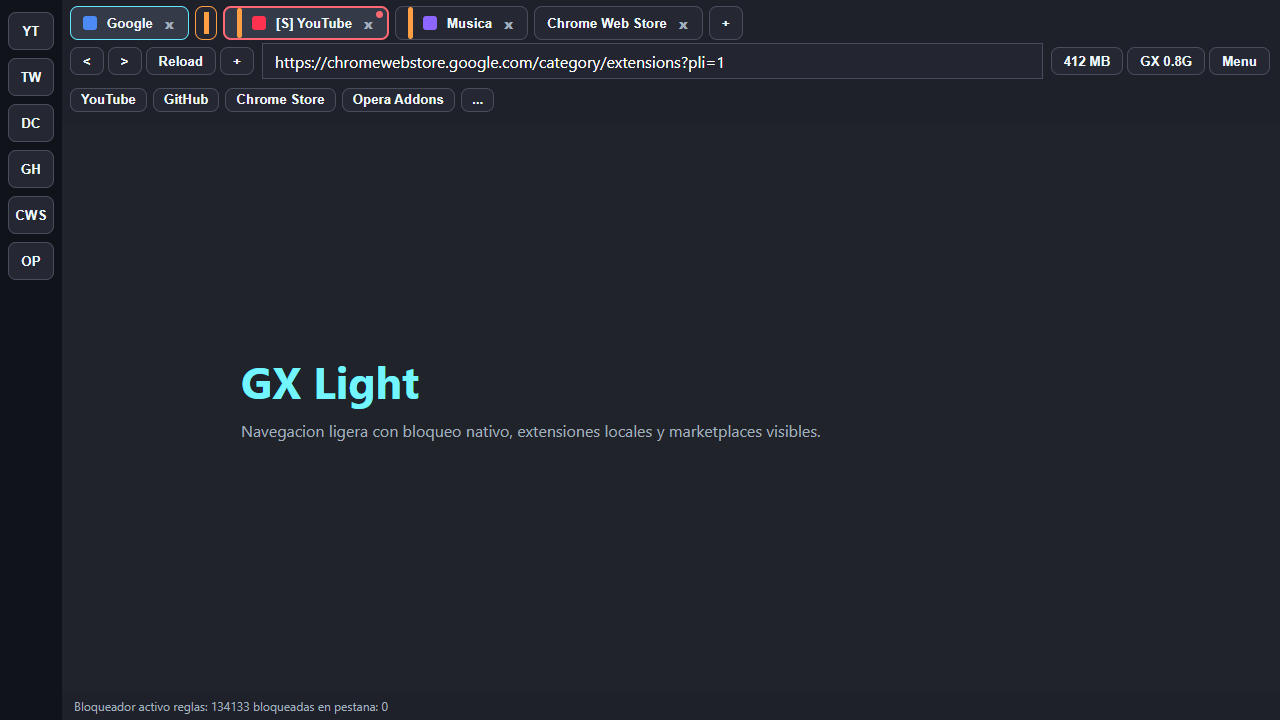
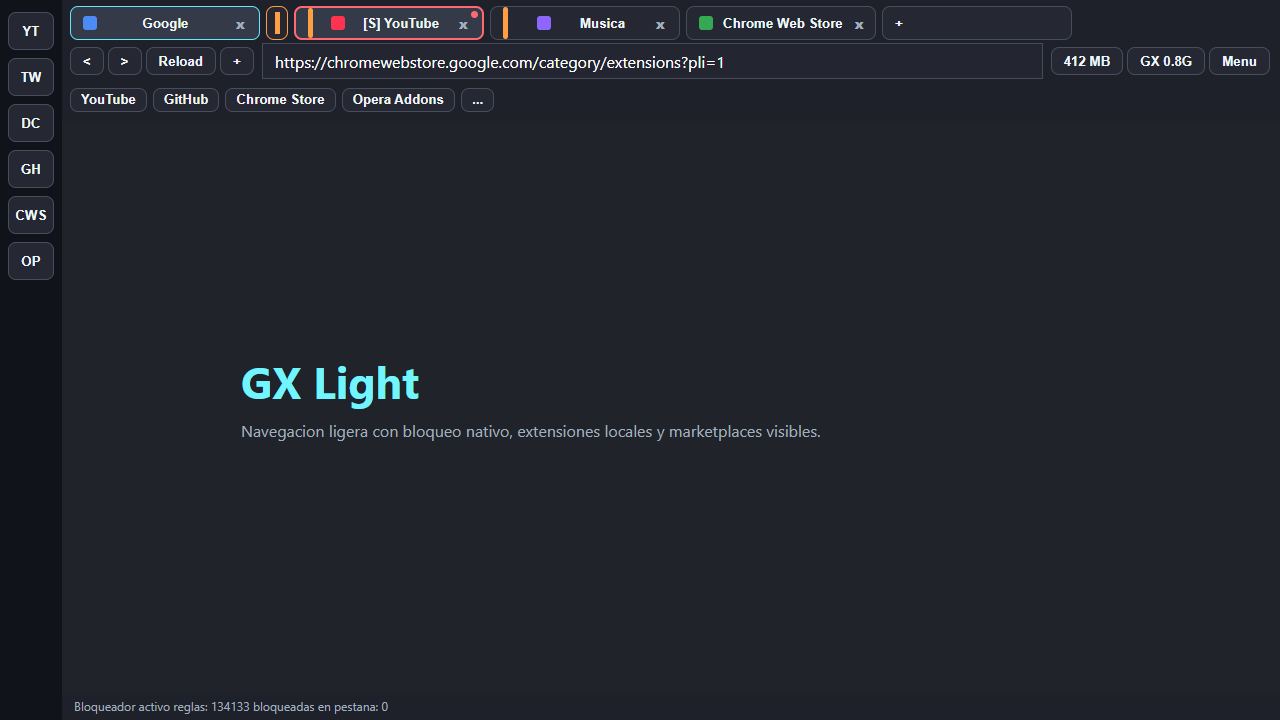
Publica GX Light Browser 1.15

Changed region(s): [[0.0938, 0.0, 0.6875, 0.0611]]

diff --git a/scripts/verify-ui-preview.js b/scripts/verify-ui-preview.js
@@ -107,6 +107,22 @@ async function main() {
         report.failures.push(`middle-click favorite did not create a tab: ${githubCount}`);
       }
 
+      await page.evaluate(() => {
+        document.querySelector(".tabs").classList.add("dense");
+        for (let i = 0; i < 20; i += 1) makeTab(`Dense ${i}`);
+      });
+      const denseReport = await page.locator(".tabs").evaluate((tabs) => {
+        const entries = [...tabs.querySelectorAll(".tab[data-tab]")];
+        return {
+          overflow: tabs.scrollWidth > tabs.clientWidth,
+          missingIcons: entries.filter((tab) => !tab.querySelector(".favicon")).length,
+          narrowest: Math.min(...entries.map((tab) => tab.getBoundingClientRect().width))
+        };
+      });
+      if (denseReport.overflow || denseReport.missingIcons || denseReport.narrowest < 37) {
+        report.failures.push(`dense tabs failed: ${JSON.stringify(denseReport)}`);
+      }
+
       await page.locator(".menu-button").click();
       const menuVisible = await page.locator(".menu-preview").isVisible();
       const menuText = await page.locator(".menu-preview").innerText();

diff --git a/docs/ui-preview.html b/docs/ui-preview.html
@@ -57,6 +57,9 @@
       align-items: center;
       justify-content: space-between;
       gap: 10px;
+      min-width: 38px;
+      max-width: 190px;
+      flex: 1 1 190px;
     }
     .tab .close {
       color: #a1b0be;
@@ -95,6 +98,9 @@
       background: #ff334f;
       flex: 0 0 auto;
     }
+    .tabs.dense .tab { padding: 0 6px; }
+    .tabs.dense .tab span:not(.favicon) { display: none; }
+    .tabs.dense .tab .favicon { display: block; margin: auto; }
     .tab.active { background: #353a49; border-color: #63e8ff; }
     .tab.multi-selected { background: #353a49; border: 2px solid #ff6974; position: relative; }
     .tab.multi-selected::after { content: ""; width: 7px; height: 7px; border-radius: 50%; background: #ff6974; position: absolute; right: 4px; top: 3px; }
@@ -188,7 +194,7 @@
         <button class="island-bar" title="Isla con 2 pestanas"></button>
         <button class="tab island island-member multi-selected" data-tab="YouTube" hidden><span class="favicon"></span><span>[S] YouTube</span><span class="close">x</span></button>
         <button class="tab island island-member" data-tab="Musica" hidden><span class="favicon" style="background:#8d66ff"></span><span>Musica</span><span class="close">x</span></button>
-        <button class="tab" data-tab="Chrome Web Store"><span>Chrome Web Store</span><span class="close">x</span></button>
+        <button class="tab" data-tab="Chrome Web Store"><span class="favicon" style="background:#34a853"></span><span>Chrome Web Store</span><span class="close">x</span></button>
         <button class="tab add-tab" style="width:34px">+</button>
       </section>
       <section class="nav">
@@ -239,7 +245,7 @@
       const button = document.createElement('button');
       button.className = 'tab';
       button.dataset.tab = title;
-      button.innerHTML = `<span>${title}</span><span class="close">x</span>`;
+      button.innerHTML = `<span class="favicon" style="background:hsl(${title.length * 31 % 360} 70% 55%)"></span><span>${title}</span><span class="close">x</span>`;
       wireTab(button);
       tabs.insertBefore(button, document.querySelector('.add-tab'));
     }

diff --git a/src/BrowserForm.cs b/src/BrowserForm.cs
@@ -2239,9 +2239,11 @@ namespace GXLightBrowser
                 tab.Height = 28;
                 tab.Margin = new Padding(0, 1, 6, 3);
                 tab.IsSelected = page == _tabs.SelectedTab;
-                tab.ShowCloseGlyph = !_appSettings.CompactIconTabs;
+                tab.IconOnly = _appSettings.CompactIconTabs || width <= 58;
+                tab.ShowCloseGlyph = !tab.IconOnly && width >= 86;
                 tab.IconImage = _appSettings.ShowPageIcons && browserTab != null ? browserTab.Favicon : null;
-                tab.IconOnly = _appSettings.CompactIconTabs;
+                tab.ShowIconPlaceholder = _appSettings.ShowPageIcons && browserTab != null && browserTab.Favicon == null;
+                tab.IconPlaceholderColor = browserTab == null ? Theme.Muted : ColorFromText(GetTabUrl(browserTab));
                 tab.IsMultiSelected = browserTab != null && browserTab.IsSelectedForIsland;
                 if (browserTab != null && browserTab.IsSelectedForIsland)
                 {
@@ -2317,10 +2319,11 @@ namespace GXLightBrowser
 
             ChromeButton island = new ChromeButton();
             island.Text = string.Empty;
-            island.Width = 22;
+            island.Width = Math.Min(40, 14 + Math.Min(5, count) * 6);
             island.Height = 28;
             island.Margin = new Padding(0, 1, 6, 3);
-            island.ShowIslandStripe = true;
+            island.IsIslandToggle = true;
+            island.IslandMemberCount = count;
             island.IslandColor = color;
             island.Accent = color;
             island.AllowDrop = true;
@@ -2926,23 +2929,44 @@ namespace GXLightBrowser
             {
                 return 38;
             }
-            if (_appSettings.TabWidth >= 80)
+
+            HashSet<int> islands = new HashSet<int>();
+            int visibleTabs = 0;
+            int islandWidth = 0;
+            for (int i = 0; i < _tabs.TabPages.Count; i++)
             {
-                return _appSettings.TabWidth;
+                BrowserTab tab = _tabs.TabPages[i].Tag as BrowserTab;
+                if (tab == null)
+                {
+                    visibleTabs++;
+                    continue;
+                }
+                if (tab.IslandId > 0 && islands.Add(tab.IslandId))
+                {
+                    int members = CountIslandMembers(tab.IslandId);
+                    islandWidth += Math.Min(40, 14 + Math.Min(5, members) * 6) + 6;
+                }
+                if (tab.IslandId <= 0 || !_collapsedIslands.Contains(tab.IslandId))
+                {
+                    visibleTabs++;
+                }
             }
 
-            int available = Math.Max(260, _tabStrip.Width - 12);
-            int count = Math.Max(1, _tabs.TabPages.Count);
-            int width = (available / count) - 8;
-            if (width < 118)
+            int available = Math.Max(80, _tabStrip.Width - islandWidth - 46);
+            int automaticWidth = (available / Math.Max(1, visibleTabs)) - 6;
+            automaticWidth = Math.Max(38, Math.Min(190, automaticWidth));
+            return _appSettings.TabWidth >= 80 ? Math.Min(_appSettings.TabWidth, automaticWidth) : automaticWidth;
+        }
+
+        private int CountIslandMembers(int islandId)
+        {
+            int count = 0;
+            for (int i = 0; i < _tabs.TabPages.Count; i++)
             {
-                return 118;
+                BrowserTab tab = _tabs.TabPages[i].Tag as BrowserTab;
+                if (tab != null && tab.IslandId == islandId) count++;
             }
-            if (width > 190)
-            {
-                return 190;
-            }
-            return width;
+            return count;
         }
 
         private BrowserTab ActiveTab()
@@ -4097,12 +4121,42 @@ namespace GXLightBrowser
 
             SetupSuspensionPlaceholder(tab);
             _tabs.TabPages.Add(page);
+            Task ignored = RefreshSuspendedFaviconAsync(tab);
             RebuildTabStrip();
             if (!_restoringSession)
             {
                 SaveSession();
             }
             return tab;
+        }
+
+        private async Task RefreshSuspendedFaviconAsync(BrowserTab tab)
+        {
+            if (tab == null || string.IsNullOrWhiteSpace(tab.SuspendedUrl)) return;
+            try
+            {
+                Uri pageUri;
+                if (!Uri.TryCreate(tab.SuspendedUrl, UriKind.Absolute, out pageUri) ||
+                    (pageUri.Scheme != Uri.UriSchemeHttp && pageUri.Scheme != Uri.UriSchemeHttps))
+                {
+                    return;
+                }
+                Uri faviconUri = new Uri(pageUri.GetLeftPart(UriPartial.Authority) + "/favicon.ico");
+                using (WebClient client = new WebClient())
+                {
+                    client.Headers[HttpRequestHeader.UserAgent] = "GXLightBrowser/" + VersionInfo.CurrentVersion;
+                    byte[] bytes = await client.DownloadDataTaskAsync(faviconUri);
+                    using (MemoryStream stream = new MemoryStream(bytes))
+                    using (Image image = Image.FromStream(stream))
+                    {
+                        tab.Favicon = new Bitmap(image);
+                    }
+                }
+                RebuildTabStrip();
+            }
+            catch
+            {
+            }
         }
 
         private void SaveSession()

diff --git a/src/ChromeButton.cs b/src/ChromeButton.cs
@@ -29,6 +29,10 @@ namespace GXLightBrowser
         public Color IslandColor { get; set; }
         public Image IconImage { get; set; }
         public bool IconOnly { get; set; }
+        public bool ShowIconPlaceholder { get; set; }
+        public Color IconPlaceholderColor { get; set; }
+        public bool IsIslandToggle { get; set; }
+        public int IslandMemberCount { get; set; }
 
         public bool IsCloseHit(Point point)
         {
@@ -70,6 +74,22 @@ namespace GXLightBrowser
                 pevent.Graphics.DrawPath(border, path);
             }
 
+            if (IsIslandToggle)
+            {
+                int bars = Math.Max(2, Math.Min(5, IslandMemberCount));
+                int totalWidth = bars * 4 + (bars - 1) * 2;
+                int left = rect.Left + (rect.Width - totalWidth) / 2;
+                for (int i = 0; i < bars; i++)
+                {
+                    Color barColor = i % 2 == 0 ? IslandColor : ControlPaint.Light(IslandColor, 0.25f);
+                    using (SolidBrush islandBrush = new SolidBrush(barColor))
+                    {
+                        pevent.Graphics.FillRectangle(islandBrush, left + i * 6, rect.Top + 5, 4, rect.Height - 10);
+                    }
+                }
+                return;
+            }
+
             if (ShowIslandStripe)
             {
                 using (SolidBrush islandBrush = new SolidBrush(IslandColor))
@@ -87,12 +107,26 @@ namespace GXLightBrowser
             }
 
             int contentLeft = rect.Left + (ShowIslandStripe ? 16 : 8);
-            if (IconImage != null)
+            if (IconImage != null || ShowIconPlaceholder)
             {
                 int iconSize = Math.Min(16, rect.Height - 8);
                 int iconLeft = IconOnly ? rect.Left + (rect.Width - iconSize) / 2 : contentLeft;
                 int iconTop = rect.Top + (rect.Height - iconSize) / 2;
-                pevent.Graphics.DrawImage(IconImage, new Rectangle(iconLeft, iconTop, iconSize, iconSize));
+                if (IconImage != null)
+                {
+                    pevent.Graphics.DrawImage(IconImage, new Rectangle(iconLeft, iconTop, iconSize, iconSize));
+                }
+                else
+                {
+                    using (SolidBrush placeholder = new SolidBrush(IconPlaceholderColor))
+                    {
+                        pevent.Graphics.FillEllipse(placeholder, iconLeft, iconTop, iconSize, iconSize);
+                    }
+                    using (SolidBrush center = new SolidBrush(Color.FromArgb(230, 255, 255, 255)))
+                    {
+                        pevent.Graphics.FillEllipse(center, iconLeft + 5, iconTop + 5, 6, 6);
+                    }
+                }
                 contentLeft += iconSize + 6;
             }
 

diff --git a/src/VersionInfo.cs b/src/VersionInfo.cs
@@ -2,18 +2,18 @@ namespace GXLightBrowser
 {
     internal static class VersionInfo
     {
-        public const string CurrentVersion = "1.14";
-        public const string ReleaseName = "GX Light Browser 1.14";
+        public const string CurrentVersion = "1.15";
+        public const string ReleaseName = "GX Light Browser 1.15";
 
         public static string[] Highlights()
         {
             return new string[]
             {
-                "La seleccion multiple de pestanas ahora tiene borde y marcador visibles.",
-                "Ctrl+clic selecciona individualmente y Shift+clic selecciona rangos.",
-                "Cada isla tiene una barra propia para colapsar o desplegar sus pestanas.",
-                "Las pestanas se pueden arrastrar hacia una isla o sobre otra pestana.",
-                "El menu contextual incluye tamanos y los favicons tienen un respaldo compatible."
+                "Las pestanas se reducen automaticamente hasta formato de icono al llenar la barra.",
+                "El favicon permanece visible incluso cuando ya no cabe el titulo.",
+                "Las paginas sin favicon muestran un marcador de dominio reconocible.",
+                "Las pestanas suspendidas recuperan su icono sin crear un WebView.",
+                "Las islas compactas muestran varias barras segun sus pestanas."
             };
         }
     }

diff --git a/CHANGELOG.md b/CHANGELOG.md
@@ -4,7 +4,7 @@ Este archivo es el historial estable de GX Light Browser. Sirve como seccion de 
 
 ## Version actual
 
-- Version publicada: `1.14`
+- Version publicada: `1.15`
 - Fecha: `2026-06-10`
 - Codigo fuente: <https://github.com/wiimri/GX-lite>
 - Tags: <https://github.com/wiimri/GX-lite/tags>
@@ -20,6 +20,20 @@ https://raw.githubusercontent.com/wiimri/GX-lite/main/update.json
 Ese archivo indica cual es la version publicada, el nombre de la release, los links y las novedades que debe mostrar `gxlight://updated`.
 
 Si GitHub no responde, GX Light usa las notas locales compiladas como respaldo.
+
+## v1.15 - Pestanas adaptables con favicon permanente
+
+Fecha: `2026-06-10`
+
+Cambios:
+
+- El ancho automatico deja de imponer el minimo fijo de 118 px y puede reducirse hasta 38 px.
+- Cuando falta espacio desaparece primero el cierre, despues el titulo y permanece el favicon centrado.
+- Los tamanos manuales tambien se reducen temporalmente si son demasiadas pestanas para la barra.
+- Las paginas sin favicon muestran un marcador coloreado basado en su dominio.
+- Las pestanas suspendidas descargan el favicon del sitio sin crear un WebView adicional.
+- Las islas compactas muestran varias barras verticales segun la cantidad de pestanas agrupadas.
+- El calculo descuenta barras de isla, pestanas colapsadas y el boton de nueva pestana.
 
 ## v1.14 - Seleccion visible, arrastre e islas funcionales
 

diff --git a/README.md b/README.md
@@ -1,6 +1,6 @@
 # GX Light Browser
 
-Version actual: `1.14`
+Version actual: `1.15`
 
 GX Light Browser es un prototipo de navegador liviano para Windows, inspirado en el flujo de trabajo de Opera GX y Brave, sin copiar marcas, identidad visual ni elementos protegidos de esos navegadores.
 
@@ -43,6 +43,8 @@ Usa Microsoft Edge WebView2 en vez de Electron. Eso permite que la aplicacion se
 - Guardado nativo de passwords solo despues de aceptar el aviso de WebView2; Windows protege las credenciales del perfil.
 - Restauracion de sesion optimizada: una pestana activa y las demas suspendidas para reducir RAM.
 - Favicons por pagina, pestanas compactas cuadradas y tamanos pequeno, mediano, grande o automatico.
+- Reduccion automatica progresiva: al llenar la barra desaparecen cierre y texto, pero permanece el favicon.
+- Marcador visual de dominio cuando una pagina no entrega favicon.
 - Playlist local para guardar, volver a abrir y eliminar paginas multimedia.
 - Icono propio integrado en la ventana y el ejecutable.
 
@@ -51,7 +53,7 @@ Usa Microsoft Edge WebView2 en vez de Electron. Eso permite que la aplicacion se
 GX Light Browser usa versiones simples pensadas para el proyecto personal:
 
 - linea base actual: `1.0`
-- linea de mejora actual: `1.14`
+- linea de mejora actual: `1.15`
 - cada mejora o correccion del navegador sube la version menor: `1.12`, `1.13`, ... `1.19`
 - despues de `1.19`, la siguiente linea pasa a `2.0`
 